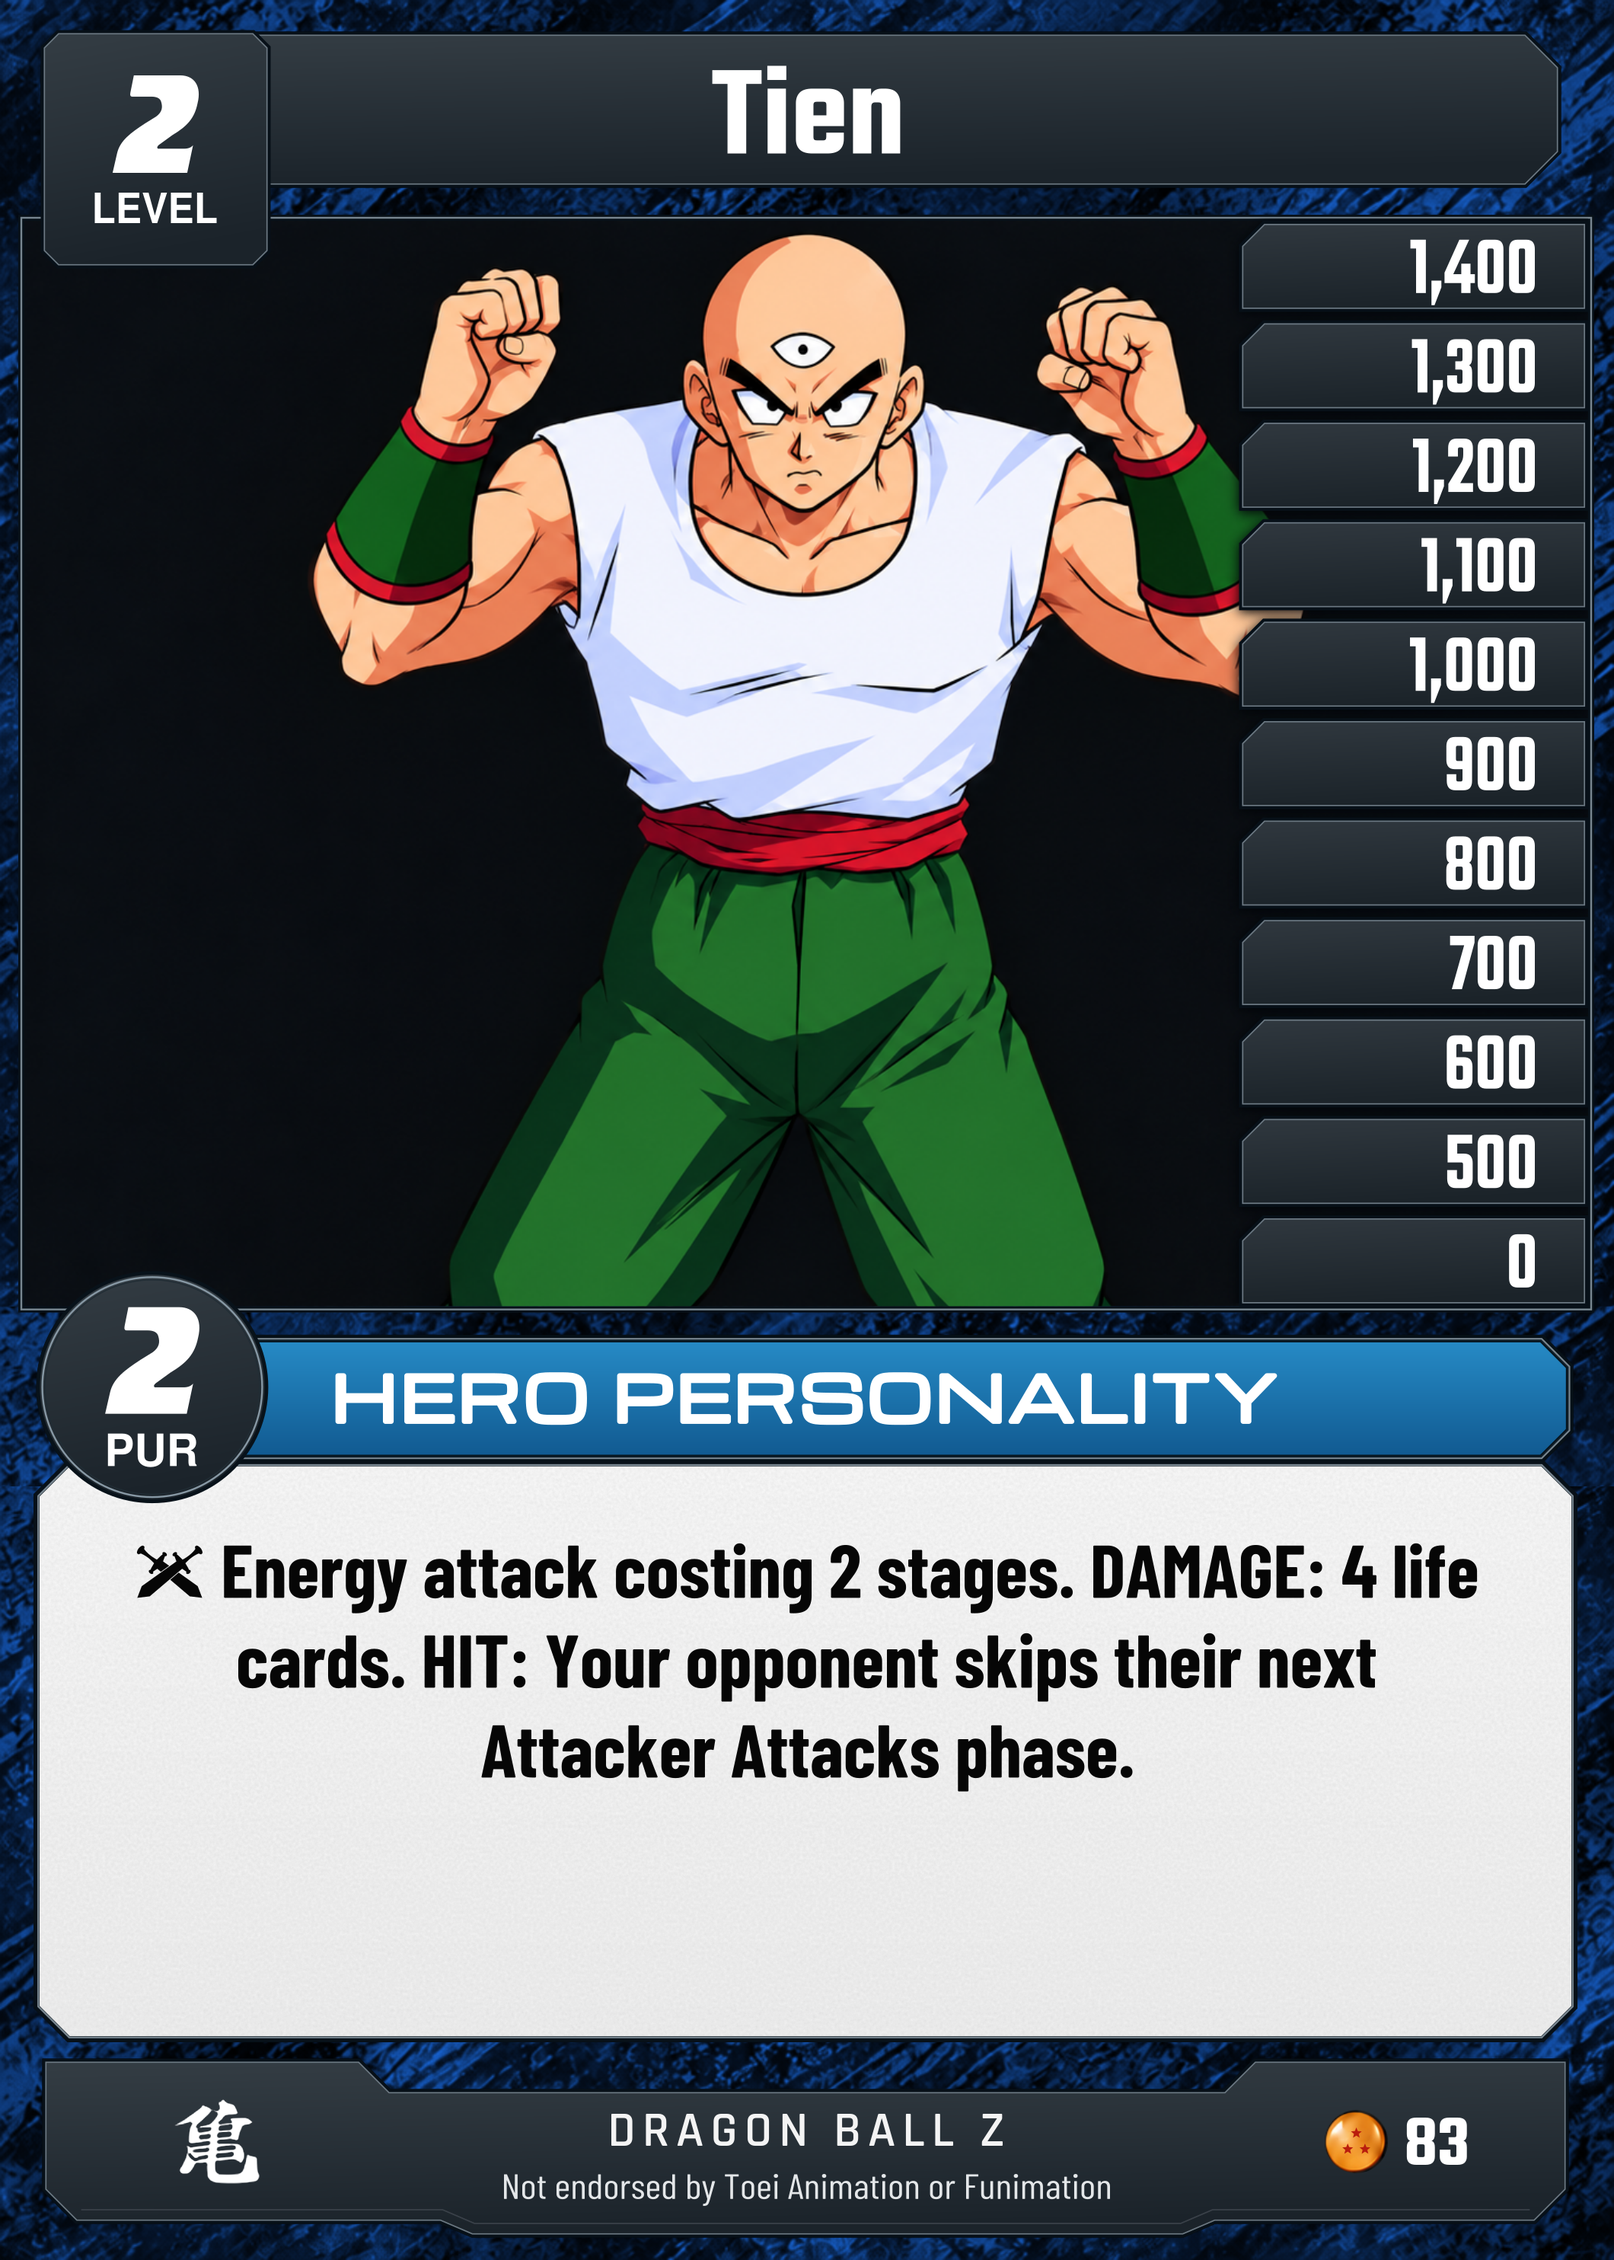
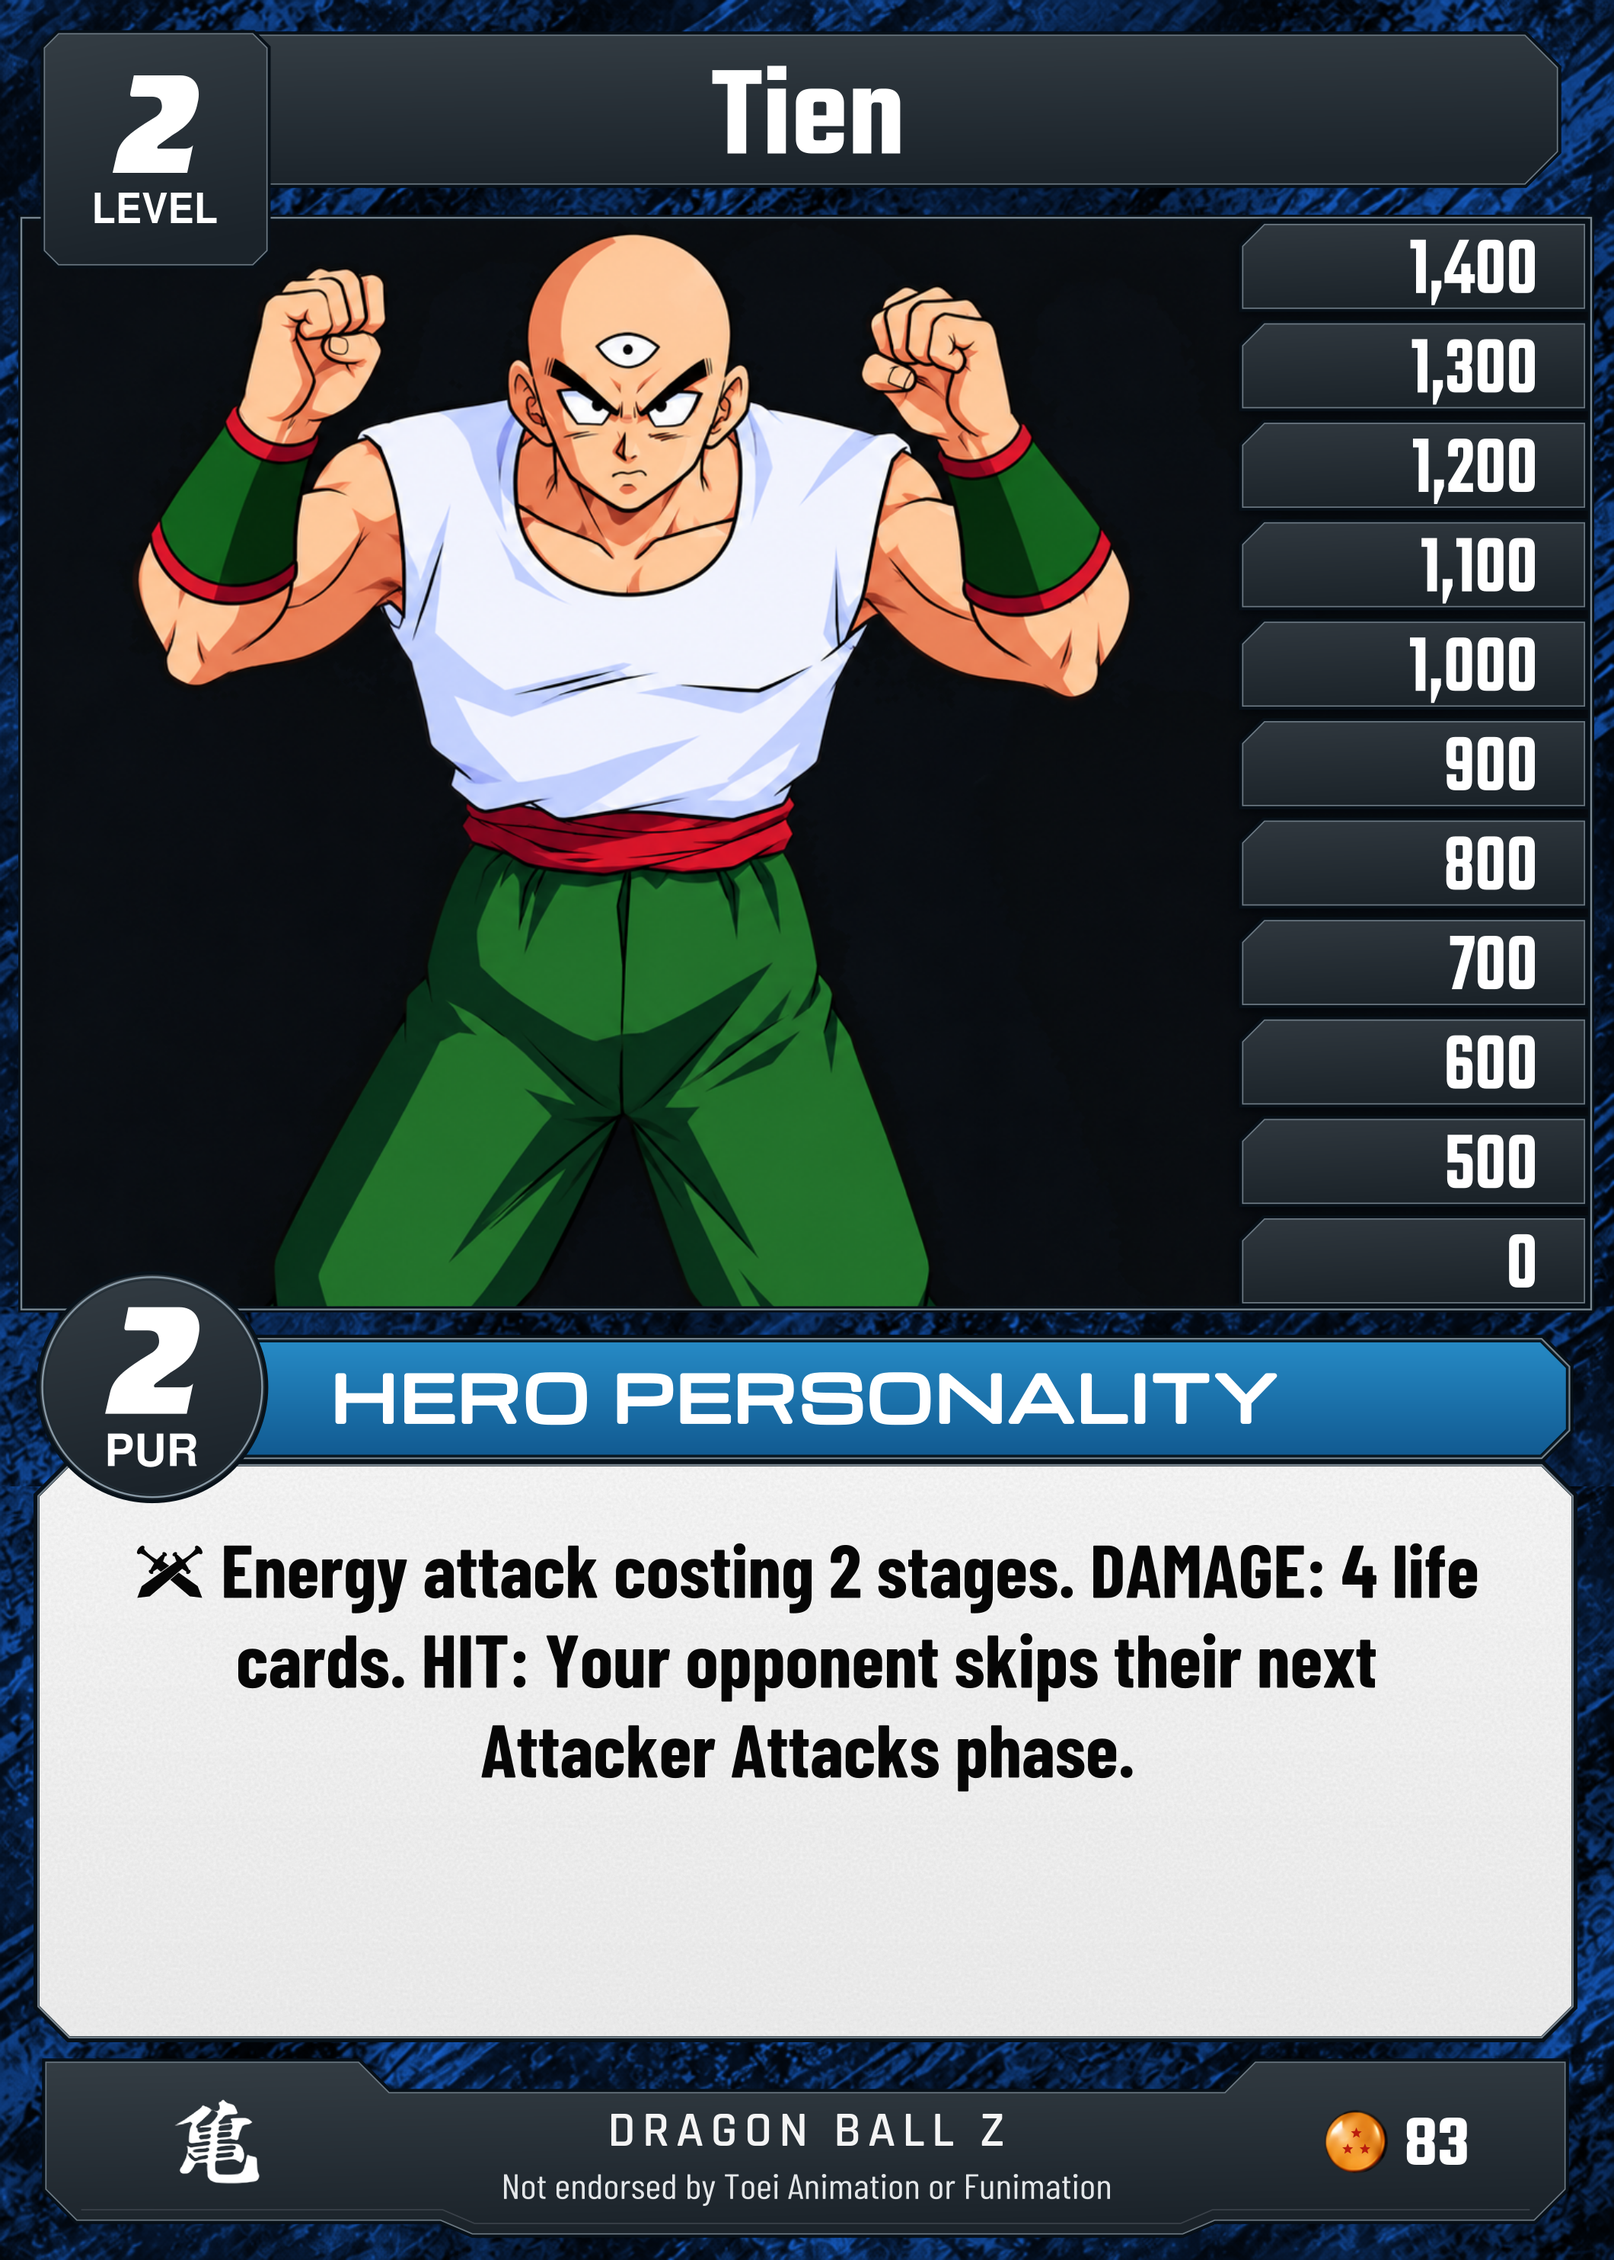
Center retained Tien artwork beside power-stage column
Move Saiyan Tien 83 character115 native pixels left, preserving pose, scale and current reference numerals. Update only display/download artwork and their cache keys. Verify zero changed pixels outside the permitted illustration footprint.

Changed region(s): [[0.0623, 0.093, 0.8094, 0.5889]]

diff --git a/public/cards/catalog.js b/public/cards/catalog.js
@@ -1155,11 +1155,11 @@ export const catalog = [
     "style": "Freestyle",
     "set": "Saiyan Saga",
     "status": "Ready",
-    "image": "/assets/cards/saiyan-083-tien.webp?v=8cb2937e64b2",
+    "image": "/assets/cards/saiyan-083-tien.webp?v=dda9805710b5",
     "source": "https://retrodbzccg.com/card-images/saiyan-saga-uncommons/",
     "width": 1060,
     "height": 1484,
-    "downloadImage": "/assets/cards/downloads/saiyan-083-tien.webp?v=a557588be040"
+    "downloadImage": "/assets/cards/downloads/saiyan-083-tien.webp?v=6d21a5d63b0b"
   },
   {
     "id": "saiyan-084-yamcha",
